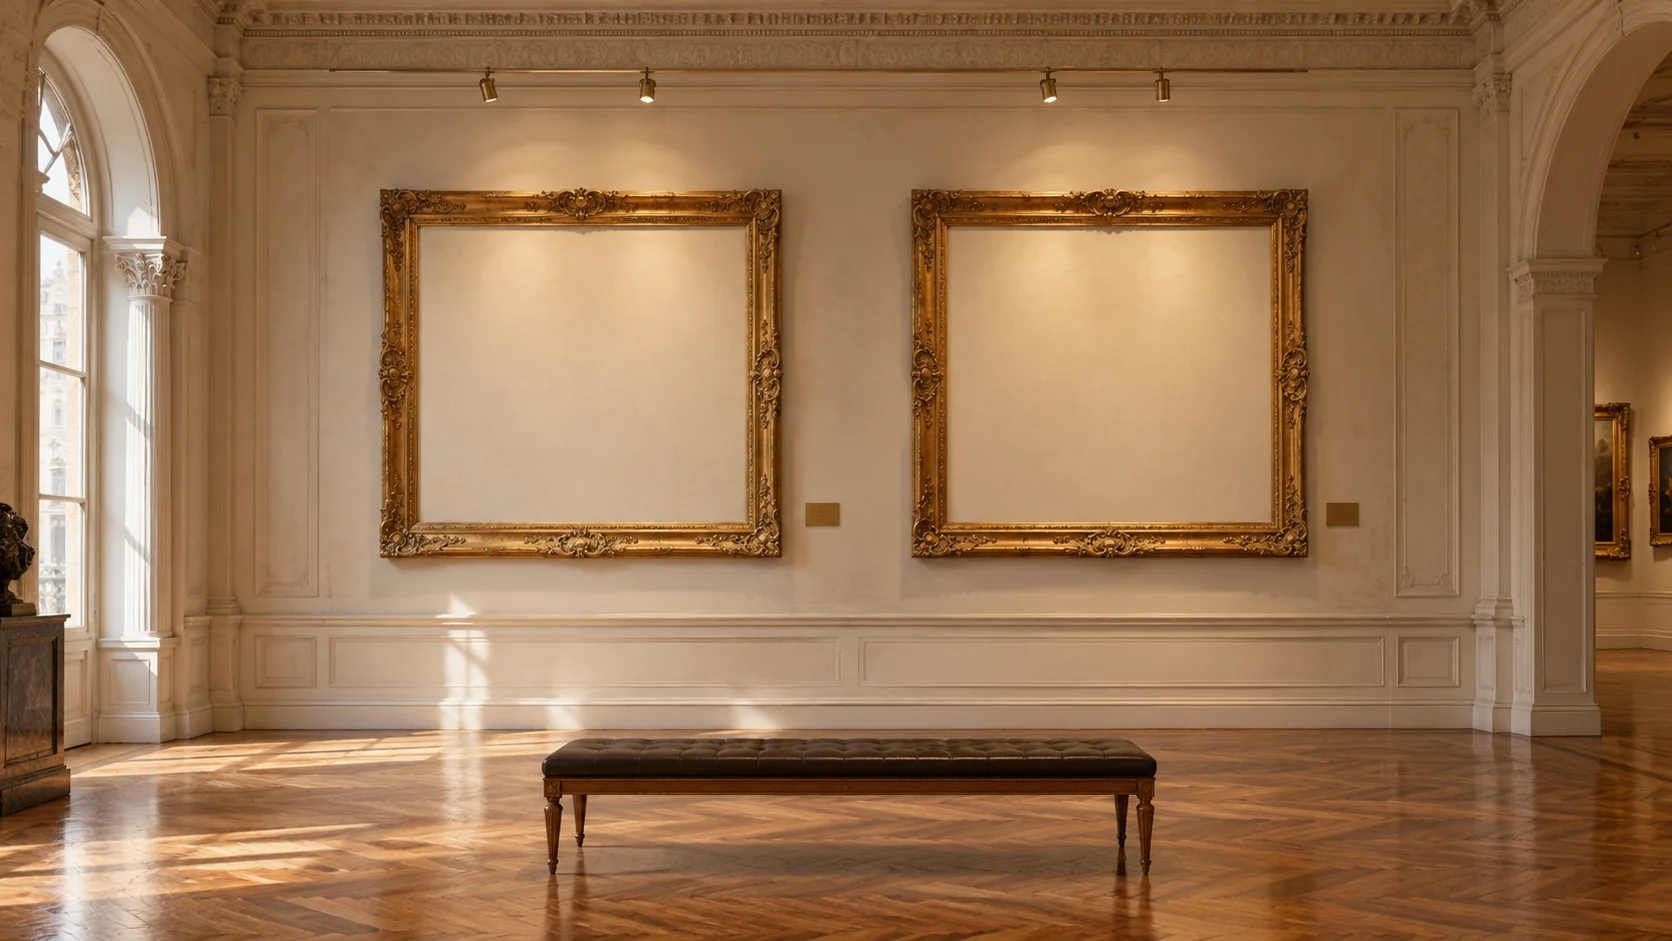
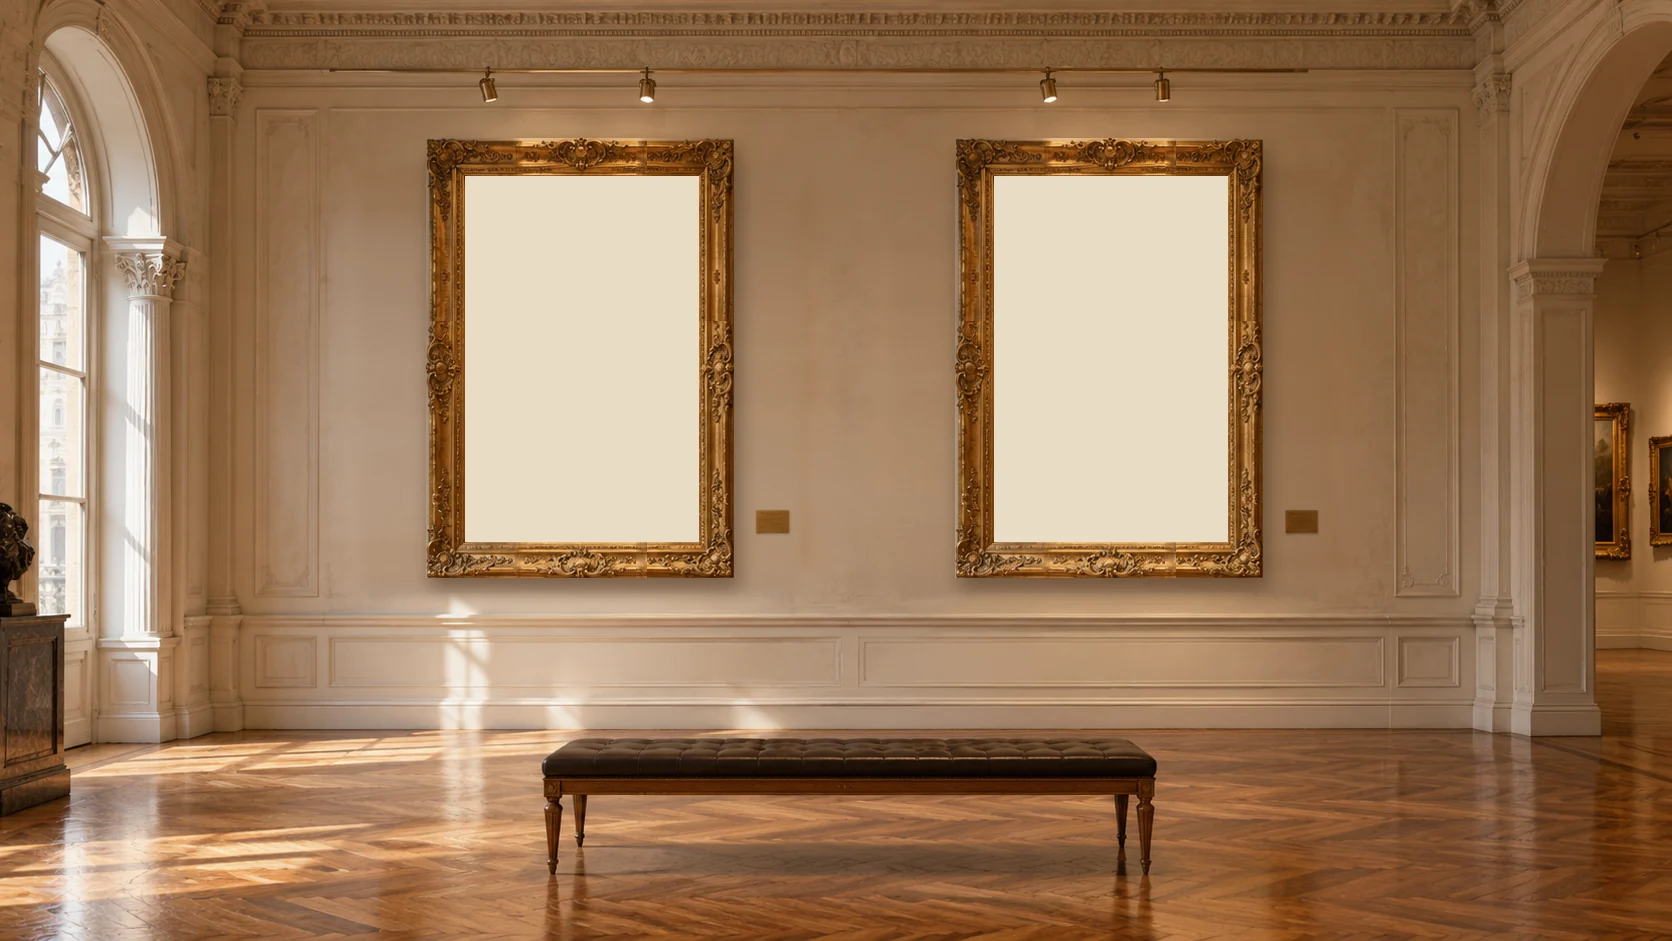
v6-museum: portrait frames rebuilt from the photo's own carved frame, portrait campaign pictures, draggable visitors back
Claude-Session: https://claude.ai/code/session_01CjM6fmEWSfNtEVqCvytC2P

Changed region(s): [[0.2177, 0.1233, 0.8086, 0.6472]]

diff --git a/src/museum.js b/src/museum.js
@@ -23,8 +23,9 @@
   }
   function unlean() { stage.style.transform = ""; }
   frames.forEach(function (f) {
-    f.addEventListener("mouseenter", function () { lean(f); }); f.addEventListener("focus", function () { lean(f); });
-    f.addEventListener("mouseleave", unlean); f.addEventListener("blur", unlean);
+    var look = function () { stage.setAttribute("data-look", f.dataset.i); }, unlook = function () { stage.removeAttribute("data-look"); };
+    f.addEventListener("mouseenter", function () { lean(f); look(); }); f.addEventListener("focus", function () { lean(f); look(); });
+    f.addEventListener("mouseleave", function () { unlean(); unlook(); }); f.addEventListener("blur", function () { unlean(); unlook(); });
   });
 
   // click: the framed picture (with its piece of the photo) grows to fill the screen, then the campaign page opens
@@ -52,5 +53,111 @@
     clone.animate([{ transform: "none" }, { transform: "translate(" + dx + "px," + dy + "px) scale(" + k + ")" }], { duration: 760, fill: "forwards", easing: "cubic-bezier(.6,0,.25,1)" });
     setTimeout(function () { location.href = a.href; }, 740);
   });
+
+  /* ---- the visitors: walk, sit, look up; drag any of them somewhere else ---- */
+  var w1 = stage.querySelector(".w1"), w2 = stage.querySelector(".w2"), w3 = stage.querySelector(".w3");
+  var PH = 941, PW = 1672, BX0 = 543, BX1 = 1156;       // photo size and the bench's left/right edge in photo pixels
+  var M = {};
+  function measure() {
+    var k = stage.clientWidth / PW;
+    M.k = k; M.W = stage.clientWidth; M.H = stage.clientHeight; M.fw = w1.offsetWidth; M.fh = M.fw * 2.62;
+    M.floorTop = 730 * k; M.back = 746 * k; M.hipY = 758 * k; M.frontY = 905 * k; M.sitMax = 800 * k;
+    M.b0 = BX0 * k; M.b1 = BX1 * k; M.seatX = (BX0 + BX1) / 2 * k - 40 * k;
+  }
+  var lerp = function (a, b, t) { return a + (b - a) * t; };
+  var ease = function (x) { return x < 0 ? 0 : x > 1 ? 1 : x * x * (3 - 2 * x); };
+  var scaleAt = function (y) { return lerp(.9, 1.3, Math.max(0, Math.min(1, (y - M.floorTop) / (M.H - M.floorTop)))); };
+  var seatFeet = function () { return M.hipY + M.fh * .43 * scaleAt(M.hipY); };
+  function place(el, x, y, s) { el.style.transform = "translate(" + (x - M.fw / 2).toFixed(1) + "px," + (y - M.fh).toFixed(1) + "px) scale(" + s.toFixed(3) + ")"; }
+  function setState(el, st) {
+    el.classList.toggle("walk", !!st.walk); el.classList.toggle("sit", !!st.sit); el.classList.toggle("look", !!st.look); el.classList.toggle("on", st.on !== false);
+  }
+  var last = {}, man = {};
+  function apply(el, key, p) {
+    last[key] = p; setState(el, p); place(el, p.x, p.y, p.s);
+    if (el.classList.contains("drag")) return;
+    el.style.zIndex = p.sit ? 2 : (p.y > M.sitMax ? 6 : 2);
+  }
+
+  // the main visitor: walks in from the bottom of the room, steps up to the bench, sits and looks up, then strolls off to the right
+  var T1 = [6.5, .7, 1.7, 17, 1.6, .6, 6.5, 2.5], LOOP1 = T1.reduce(function (a, b) { return a + b; }, 0);
+  function pose1(t) {
+    t = t % LOOP1;
+    var x0 = M.seatX - M.W * .2, y0 = M.H + M.fh * 1.5, xs = M.seatX - M.W * .03, ys = M.frontY, sf = seatFeet(), k;
+    if (t < T1[0]) { k = t / T1[0]; var yy = lerp(y0, ys, k); return { x: lerp(x0, xs, k), y: yy, s: scaleAt(yy), walk: true, on: k > .02 }; }
+    t -= T1[0];
+    if (t < T1[1]) return { x: xs, y: ys, s: scaleAt(ys) };
+    t -= T1[1];
+    if (t < T1[2]) { k = ease(t / T1[2]); return { x: lerp(xs, M.seatX, k), y: lerp(ys, sf, k), s: lerp(scaleAt(ys), scaleAt(M.hipY), k), sit: k > .3 }; }
+    t -= T1[2];
+    if (t < T1[3]) return { x: M.seatX, y: sf, s: scaleAt(M.hipY), sit: true, look: true };
+    t -= T1[3];
+    if (t < T1[4]) { k = ease(t / T1[4]); return { x: lerp(M.seatX, xs, k), y: lerp(sf, ys, k), s: lerp(scaleAt(M.hipY), scaleAt(ys), k), sit: k < .7 }; }
+    t -= T1[4];
+    if (t < T1[5]) return { x: xs, y: ys, s: scaleAt(ys) };
+    t -= T1[5];
+    if (t < T1[6]) { k = t / T1[6]; return { x: lerp(xs, M.W + M.fw * 1.5, k), y: ys, s: scaleAt(ys), walk: true }; }
+    return { x: 0, y: 0, s: 1, on: false };
+  }
+  // two visitors stroll along the wall, pausing beside the frames to look up
+  function wander(t, dir, period, stops, off) {
+    var u = ((t + off) % period) / period, pts = [{ u: 0, x: dir > 0 ? -.08 : 1.08 }].concat(stops, [{ u: 1, x: dir > 0 ? 1.08 : -.08 }]), s = scaleAt(M.back);
+    for (var i = 0; i < pts.length - 1; i++) {
+      var a = pts[i], b = pts[i + 1], aEnd = a.hold ? a.u + a.hold : a.u;
+      if (u >= a.u && u < aEnd) return { x: a.x * M.W, y: M.back, s: s, look: true };
+      if (u >= aEnd && u < b.u) return { x: lerp(a.x, b.x, (u - aEnd) / (b.u - aEnd)) * M.W, y: M.back, s: s, walk: true };
+    }
+    return { x: pts[pts.length - 1].x * M.W, y: M.back, s: s, walk: true };
+  }
+  var S2 = [{ u: .26, hold: .13, x: .17 }, { u: .62, hold: .12, x: .53 }], S3 = [{ u: .3, hold: .1, x: .88 }, { u: .66, hold: .16, x: .47 }];
+
+  function manualPose(m) {
+    if (m.sit) return { x: m.x, y: seatFeet(), s: scaleAt(M.hipY), sit: true, look: true };
+    return { x: m.x, y: m.y, s: scaleAt(m.y), walk: !!m.drag, look: !m.drag };
+  }
+  [[w1, "w1"], [w2, "w2"], [w3, "w3"]].forEach(function (pair) {
+    var el = pair[0], key = pair[1], grab = null;
+    el.addEventListener("pointerdown", function (e) {
+      var p = last[key]; if (!p || p.on === false) return;
+      var r = stage.getBoundingClientRect();
+      grab = { dx: e.clientX - r.left - p.x, dy: e.clientY - r.top - p.y };
+      man[key] = { x: p.x, y: p.sit ? M.frontY : p.y, sit: false, drag: true };
+      el.setPointerCapture(e.pointerId); el.classList.add("drag"); e.preventDefault();
+    });
+    el.addEventListener("pointermove", function (e) {
+      if (!grab) return;
+      var r = stage.getBoundingClientRect(), m = man[key];
+      m.x = Math.max(M.fw * .3, Math.min(M.W - M.fw * .3, e.clientX - r.left - grab.dx));
+      m.y = Math.max(M.back, Math.min(M.H, e.clientY - r.top - grab.dy));
+      apply(el, key, manualPose(m));
+    });
+    var end = function () {
+      if (!grab) return; grab = null; el.classList.remove("drag");
+      var m = man[key]; m.drag = false;
+      if (m.x > M.b0 && m.x < M.b1 && m.y > M.back + M.H * .004 && m.y < M.sitMax) { m.sit = true; m.x = Math.max(M.b0 + M.fw * .6, Math.min(M.b1 - M.fw * .6, m.x)); }
+      apply(el, key, manualPose(m));
+    };
+    el.addEventListener("pointerup", end); el.addEventListener("pointercancel", end);
+  });
+
+  var running = false, raf = 0;
+  function frame(now) {
+    var t = now / 1000;
+    apply(w1, "w1", man.w1 ? manualPose(man.w1) : pose1(t));
+    apply(w2, "w2", man.w2 ? manualPose(man.w2) : wander(t, 1, 70, S2, 4));
+    apply(w3, "w3", man.w3 ? manualPose(man.w3) : wander(t, -1, 90, S3, 31));
+    if (running) raf = requestAnimationFrame(frame);
+  }
+  function start() { if (!running) { running = true; raf = requestAnimationFrame(frame); } }
+  function stop() { running = false; cancelAnimationFrame(raf); }
+  measure();
+  addEventListener("resize", function () { measure(); if (!running) frame(performance.now()); });
+  document.addEventListener("visibilitychange", function () { document.hidden ? stop() : start(); });
+  if (reduce) {
+    apply(w1, "w1", { x: M.seatX, y: seatFeet(), s: scaleAt(M.hipY), sit: true });
+    apply(w2, "w2", { x: M.W * .17, y: M.back, s: scaleAt(M.back) });
+    apply(w3, "w3", { x: M.W * .88, y: M.back, s: scaleAt(M.back) });
+  } else start();
+  window.__gallery = { seek: function (sec) { stop(); measure(); frame(sec * 1000); } };
   addEventListener("pageshow", function (e) { if (e.persisted) location.reload(); });
 })();

diff --git a/src/museum.css b/src/museum.css
@@ -13,9 +13,9 @@ body.museum-page .scene{display:none}
 .museum .stage .frame:hover,.museum .stage .frame:focus-visible{transform:none}
 .frame .art{position:absolute;overflow:hidden;background:linear-gradient(180deg,#e6d9c1,#efe5d0 60%,#e9dcc4);
   box-shadow:inset 0 .55cqw .75cqw -.2cqw rgba(38,21,4,.62),inset .3cqw 0 .5cqw -.2cqw rgba(38,21,4,.38),inset -.15cqw 0 .3cqw -.1cqw rgba(38,21,4,.25)}
-.frame .art picture{position:absolute;left:50%;top:50%;width:91%;aspect-ratio:var(--r);translate:-50% -50%;display:block;
+.frame .art picture{position:absolute;left:50%;top:50%;width:var(--pw,90%);aspect-ratio:var(--r);translate:-50% -50%;display:block;
   box-shadow:0 0 0 .22cqw #f7f1e4,0 0 0 .3cqw rgba(60,40,15,.28),0 .25cqw .5cqw rgba(30,15,0,.45)}
-.frame .art img{display:block;width:100%;height:100%;object-fit:contain}
+.frame .art img{display:block;width:100%;height:100%;object-fit:cover}
 /* light falling on the print: spotlight from above, warm tint, a faint glass sheen, soft falloff at the bottom */
 .frame .art .lit{position:absolute;inset:0;pointer-events:none;
   background:
@@ -62,3 +62,13 @@ body.museum-page .scene{display:none}
   .wl{font-size:1.5cqw}.wl b{font-size:1cqw}
 }
 @media (prefers-reduced-motion:reduce){.stage,.frame .glow{transition:none}}
+
+/* the bench front face is re-laid over the seated visitor (a slice of the photo itself) */
+.benchcut{background-image:url(/scene/museum.webp);background-repeat:no-repeat;z-index:3;pointer-events:none}
+.museum .stage .frame{z-index:1}
+.vis:not(.on){pointer-events:none}
+.vis.drag{z-index:9!important}
+.stage[data-look="0"] .vis.sit.look .head{animation:none;transform:translate(-4px,-3px) rotate(-3deg) scaleY(1.05)}
+.stage[data-look="1"] .vis.sit.look .head{animation:none;transform:translate(4px,-3px) rotate(3deg) scaleY(1.05)}
+.stage>.vis{position:absolute}
+.stage>.vis{width:8cqw}

diff --git a/tools/make_museum_portrait.py b/tools/make_museum_portrait.py
@@ -1,0 +1,134 @@
+"""Rebuilds the museum photo with TALL portrait frames.
+Takes the photographed room (archive/v6-photo/museum-source.png), erases the two landscape gold frames
+(plaster is rebuilt row by row from the wall on either side, plus film grain), then assembles two new
+portrait frames out of pieces of the original carved frame (corners, centre cartouches, side scrolls,
+with the plain moulding mirror-tiled to the new length), casts a soft wall shadow and moves the brass plaques.
+Run: python3 tools/make_museum_portrait.py   ->  src/scene/museum.webp  (+ prints the opening rectangles)"""
+import numpy as np
+from PIL import Image, ImageFilter
+from scipy.ndimage import gaussian_filter
+
+SRC = "archive/v6-photo/museum-source.png"
+OUT = "src/scene/museum.webp"
+rng = np.random.default_rng(7)
+P = Image.open(SRC).convert("RGB")
+A = np.asarray(P).astype(np.float32)
+H, W = A.shape[:2]
+
+# ---- old frames (outer boxes) and plaques ----
+OLD = [(379, 188, 782, 558), (910, 188, 1308, 558)]
+TEMPLATE = P.crop(OLD[0])           # 403 x 370, left frame
+
+def erase_rows(a, x0, y0, x1, y1, pad=14, feather=5):
+    """rebuild plaster inside the box: every row is interpolated between wall columns just outside the box
+    (smoothed), given plaster grain, and blended in through a feathered edge so no seam shows"""
+    X0, X1, Y0, Y1 = x0 - pad, x1 + pad, y0 - pad, y1 + pad
+    xl, xr = X0 - 3, X1 + 3
+    left = gaussian_filter(a[Y0:Y1, xl - 3:xl + 3].mean(1), (5, 0))
+    right = gaussian_filter(a[Y0:Y1, xr - 3:xr + 3].mean(1), (5, 0))
+    t = np.linspace(0, 1, X1 - X0)[None, :, None]
+    fill = left[:, None, :] * (1 - t) + right[:, None, :] * t
+    fill += gaussian_filter(rng.normal(0, 2.4, fill.shape[:2]), 1.1)[:, :, None]
+    m = np.zeros(fill.shape[:2], np.float32)
+    m[pad - feather:-(pad - feather), pad - feather:-(pad - feather)] = 1
+    m = gaussian_filter(m, feather * .8)[:, :, None]
+    a[Y0:Y1, X0:X1] = a[Y0:Y1, X0:X1] * (1 - m) + fill * m
+
+def erase_cols(a, x0, y0, x1, y1, pad=8, feather=3):
+    """same idea, interpolating each column between wall rows just above and below the box"""
+    X0, X1, Y0, Y1 = x0 - pad, x1 + pad, y0 - pad, y1 + pad
+    yt, yb = Y0 - 3, Y1 + 3
+    top = gaussian_filter(a[yt - 3:yt + 3, X0:X1].mean(0), (4, 0))
+    bot = gaussian_filter(a[yb - 3:yb + 3, X0:X1].mean(0), (4, 0))
+    t = np.linspace(0, 1, Y1 - Y0)[:, None, None]
+    fill = top[None] * (1 - t) + bot[None] * t
+    fill += gaussian_filter(rng.normal(0, 2.4, fill.shape[:2]), 1.1)[:, :, None]
+    m = np.zeros(fill.shape[:2], np.float32)
+    m[pad - feather:-(pad - feather), pad - feather:-(pad - feather)] = 1
+    m = gaussian_filter(m, feather * .8)[:, :, None]
+    a[Y0:Y1, X0:X1] = a[Y0:Y1, X0:X1] * (1 - m) + fill * m
+
+# 1. lift plaques out, keep the patches
+PLQ = [(804, 501, 842, 530), (1324, 501, 1362, 530)]
+patches = [P.crop(b) for b in PLQ]
+for (x0, y0, x1, y1) in PLQ:
+    erase_cols(A, x0 - 2, y0 - 2, x1 + 3, y1 + 6, pad=9, feather=4)   # wall above/below is clean plaster
+
+# 2. erase the old frames (plus their cast shadow), then the plaques (frames first, so the wall used as reference is clean)
+for (x0, y0, x1, y1) in OLD:
+    erase_rows(A, x0 - 14, y0 - 12, x1 + 16, y1 + 26, pad=26, feather=9)
+
+# ---- build the new portrait frame from pieces of the template ----
+FW, FH = 308, 440
+BL, BR, BT, BB = 39, 35, 38, 36          # border widths of the original moulding
+T = TEMPLATE
+frame = Image.new("RGB", (FW, FH))
+tw, th = T.size
+
+def put(img, box_src, pos): frame.paste(img.crop(box_src), pos)
+
+CW, CTH, CBH = 87, 82, 53                  # corner block width / heights (top, bottom)
+# side strips (left uses the left border, right the right border)
+def side(x_src0, x_src1, x_dst):
+    w = x_src1 - x_src0
+    top_end, bot_start = CTH, FH - CBH
+    seg_len = bot_start - top_end             # 305
+    ornament = T.crop((x_src0, 139, x_src1, 242))          # side scroll (103 px)
+    p1 = T.crop((x_src0, 82, x_src1, 139))                 # plain moulding above it
+    p2 = T.crop((x_src0, 242, x_src1, 317))                # plain moulding below it
+    def tile(seg, n):
+        out = Image.new("RGB", (w, n)); y = 0; flip = False
+        while y < n:
+            s = seg.transpose(Image.FLIP_TOP_BOTTOM) if flip else seg
+            out.paste(s, (0, y)); y += seg.height; flip = not flip
+        return out
+    need = (seg_len - ornament.height) // 2
+    frame.paste(tile(p1, need), (x_dst, top_end))
+    frame.paste(ornament, (x_dst, top_end + need))
+    frame.paste(tile(p2, seg_len - ornament.height - need), (x_dst, top_end + need + ornament.height))
+side(0, 46, 0)
+side(tw - 46, tw, FW - 46)
+# top and bottom strips: plain - cartouche - plain
+def band(y_src0, y_src1, y_dst):
+    h = y_src1 - y_src0
+    cart = T.crop((144, y_src0, 258, y_src1))
+    gap = (FW - 2 * CW - cart.width) // 2
+    plain = T.crop((CW, y_src0, CW + 57, y_src1))
+    frame.paste(plain.resize((gap + 2, h)), (CW - 1, y_dst))
+    frame.paste(cart, (CW + gap, y_dst))
+    frame.paste(plain.transpose(Image.FLIP_LEFT_RIGHT).resize((gap + 2, h)), (CW + gap + cart.width - 1, y_dst))
+band(0, BT, 0)
+band(th - BB, th, FH - BB)
+# corner blocks
+put(T, (0, 0, CW, CTH), (0, 0))
+put(T, (tw - CW, 0, tw, CTH), (FW - CW, 0))
+put(T, (0, th - CBH, CW, th), (0, FH - CBH))
+put(T, (tw - CW, th - CBH, tw, th), (FW - CW, FH - CBH))
+# the opening is filled with a cream mat colour (the page lays the artwork over it)
+inner = (BL, BT, FW - BR, FH - BB)
+mat = Image.new("RGB", (inner[2] - inner[0], inner[3] - inner[1]), (233, 220, 196))
+frame.paste(mat, inner[:2])
+fa = np.asarray(frame).astype(np.float32)
+
+# ---- place frames: same centres as the old ones, top edge a little higher so they feel bigger ----
+FY = 138
+centres = [(379 + 782) / 2, (910 + 1308) / 2]
+canvas = Image.fromarray(np.clip(A, 0, 255).astype(np.uint8))
+res = []
+for cx in centres:
+    fx = int(round(cx - FW / 2))
+    # soft shadow on the plaster: light comes from above, so the shadow falls down and a little to the right
+    sh = Image.new("L", (W, H), 0)
+    sh.paste(255, (fx + 4, FY + 8, fx + FW + 6, FY + FH + 12))
+    sh = sh.filter(ImageFilter.GaussianBlur(9))
+    shade = Image.new("RGB", (W, H), (45, 26, 8))
+    canvas = Image.composite(shade, canvas, sh.point(lambda v: int(v * .42)))
+    canvas.paste(frame, (fx, FY))
+    res.append(dict(x=fx, y=FY, w=FW, h=FH, ix=fx + BL, iy=FY + BT, iw=FW - BL - BR, ih=FH - BT - BB))
+# ---- plaques follow their frames, a little lower so they sit beside the lower third ----
+for patch, r in zip(patches, res):
+    px = r["x"] + FW + 20; py = FY + FH - 70
+    m = Image.new("L", patch.size, 0); m.paste(255, (2, 2, patch.width - 2, patch.height - 2)); m = m.filter(ImageFilter.GaussianBlur(1.2))
+    canvas.paste(patch, (px, py), m)
+canvas.save(OUT, quality=86, method=6)
+print(res)
